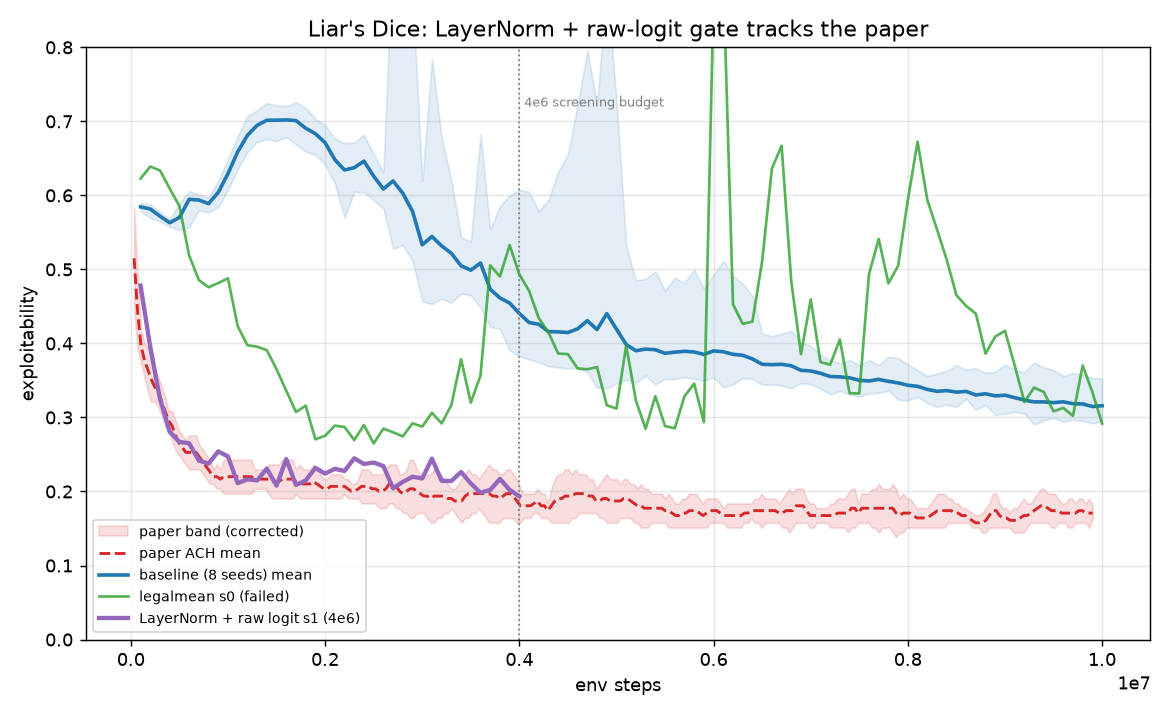
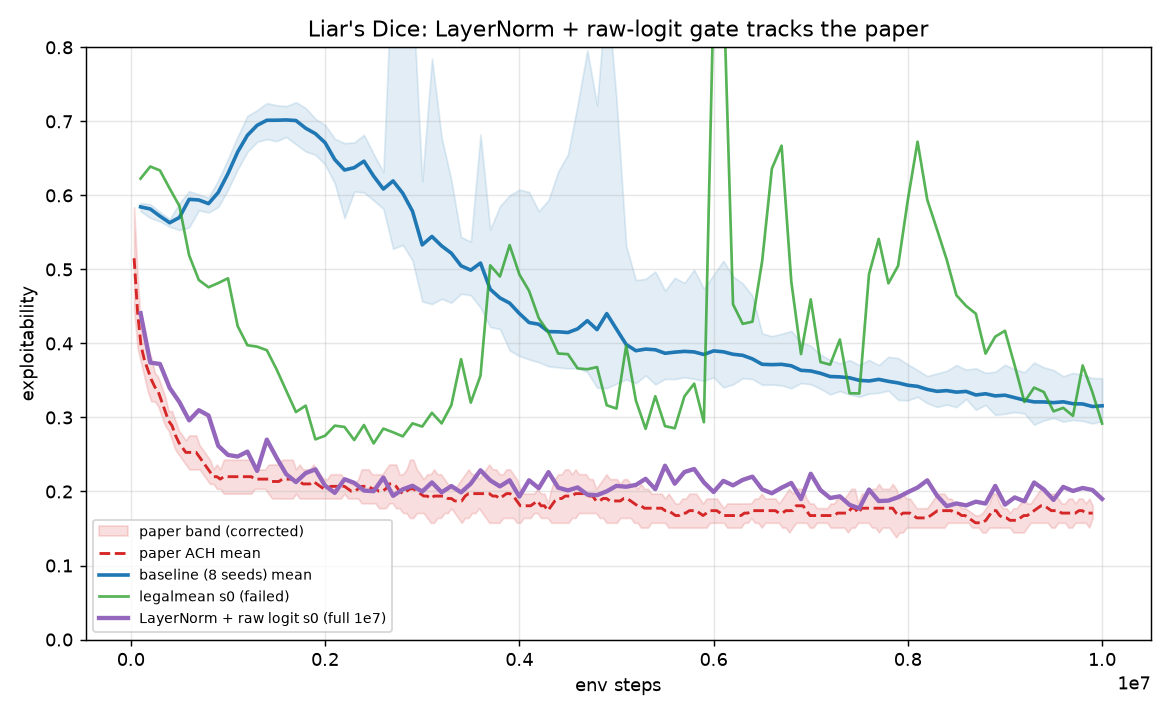
docs: full 1e7 result for LayerNorm + raw logit -- 80% of the gap, still fails D5
Paired on liars seed 0 against the same seed's baseline: final 0.1986 vs the
baseline's 0.3066 and legal-mean's 0.3366, against the paper's 0.1709
band [0.1539, 0.1881]. That is a 0.108 improvement and closes ~80% of the gap
to the paper, but it lands 0.0105 outside the band, so by the pre-agreed D5
criterion it does NOT pass.

Stability is where the difference is starkest. Over 3.6e6-1e7 -- the window
where legal-mean fell apart -- the LayerNorm arm has std 0.0133 and never
exceeds 0.235, against baseline std 0.0398 / max 0.480 and legal-mean std 0.1249
/ max 0.893. It is the only arm whose late-training shape resembles the paper's
flat convergence.

Records explicitly that D5 is defined on the 8-seed mean, so a single seed
cannot settle it: 0.1986 sits only 0.0105 above the band edge and an 8-seed mean
could plausibly fall inside. Seeds 1-7 are left as follow-up work (~21 h serial).

diff --git a/docs/reproduce_report.md b/docs/reproduce_report.md
@@ -354,8 +354,35 @@ Liar's Dice 是三游戏中唯一动作空间大（13）且**多数动作非法*
    全程更差），说明原始 logit 必须与归一化配套才有效，但完整归因需要
    单因子拆解。
 3. **4e6 是筛选预算，不等于复现**。legalmean 的失稳始于 ~3.6e6 并恶化至
-   8e6；本 run 只覆盖到该窗口起点。全长 1e7 验证（seed 0，与基线 0.3066 /
-   legalmean 0.3366 配对）**进行中**。
+   8e6；本 run 只覆盖到该窗口起点。
+
+#### 全长 1e7 验证结果（seed 0，三臂同 seed 配对）
+
+| 臂 | final（末 10% 均值） | 与论文均值差 |
+|---|---|---|
+| 基线（论文忠实） | 0.3066 | +0.136 |
+| legalmean（A5） | 0.3366 | +0.166 |
+| **LayerNorm + 原始 logit** | **0.1986** | **+0.028** |
+| 论文 | 0.1709 | band [0.1539, **0.1881**] |
+
+**判定：未通过 D5**——0.1986 落在论文带外 0.0105，且 |Δmean|=0.0277 >
+半宽 0.0171。但它**消掉了约 80% 的 gap**（与同 seed 基线相比 −0.1080）。
+
+**稳定性才是最显著的差别**（3.6e6 之后，即 legalmean 的失稳窗口）：
+
+| 臂 | max | min | std |
+|---|---|---|---|
+| 基线 | 0.480 | 0.300 | 0.0398 |
+| legalmean | **0.893** | 0.285 | **0.1249** |
+| **LayerNorm** | **0.235** | 0.177 | **0.0133** |
+
+LayerNorm 臂全程无冲高，波动比基线小 3 倍、比 legalmean 小 9 倍，形态与
+论文的平坦收敛一致。
+
+**⚠ 口径提醒**：D5 判的是 **8 seeds 的 final mean**，此处只有 1 个 seed，
+因此上表的 “未通过” 是**单 seed 代理判定，不是正式 D5 判定**。单 seed
+0.1986 与带上沿 0.1881 仅差 0.0105，8-seed 均值有落入带内的可能。
+**补齐 seeds 1–7 列为后续工作**（约 21 h 串行）。
 
 **已设为默认配置（2026-07-23）**：`trunk_layernorm: true` +
 `gate_centered_logits: false` + `loss_centered_logits: false` 已写入全部
